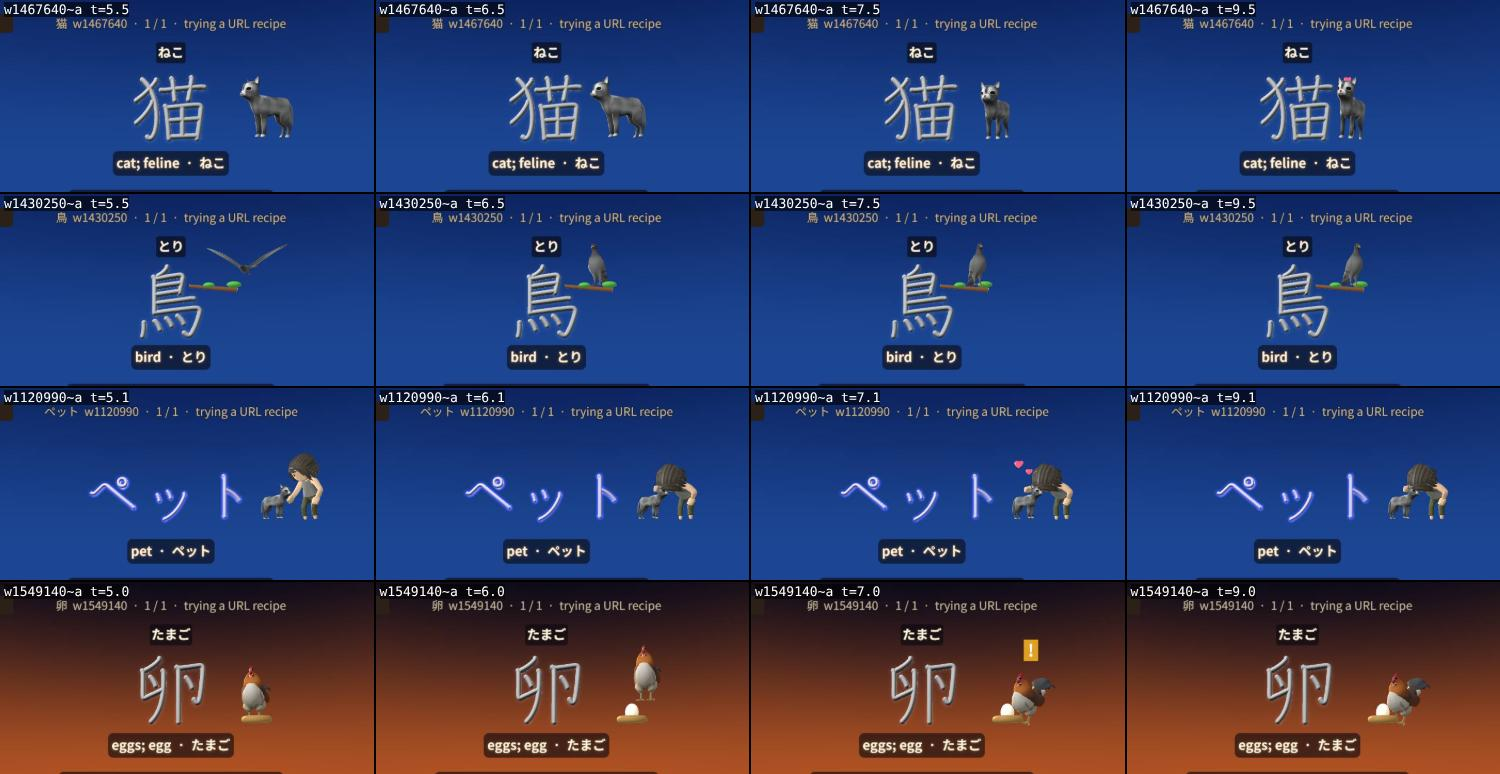
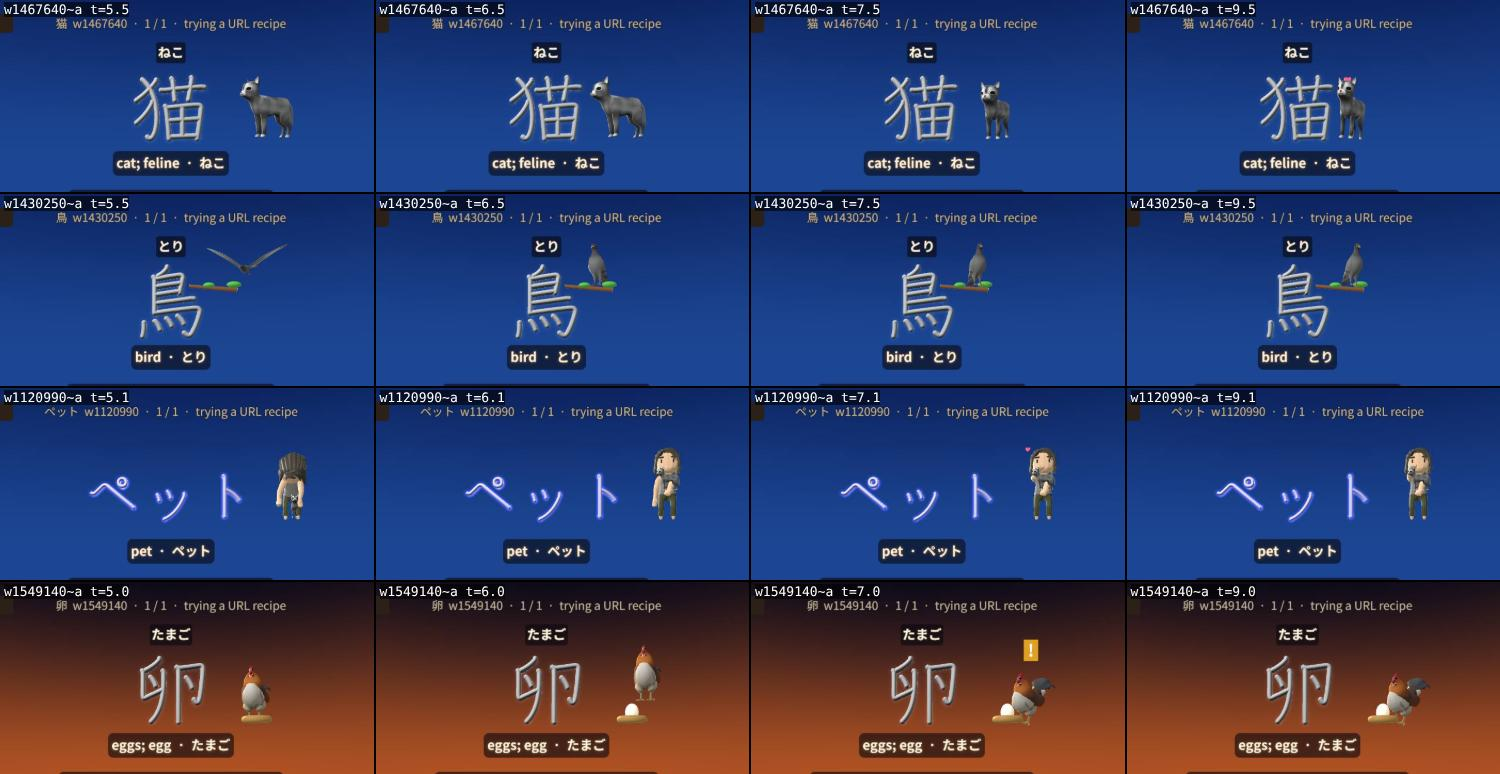
Step 3a: held things rest against the palm, not inside the fist
model-kit.js: grip() reaches so the palm touches a thing and twists the forearm and wrist so
the palm faces it; hold() places the prop against the palm. 飲む holds the glass from its side,
食べる rests the bowl on the upturned palm, ペット holds the cat and strokes its head palm down.

Claude-Session: https://claude.ai/code/session_01BCMTVVwWKQfPaXhvHiXkTn

diff --git a/src/effects/vignettes/q-gestures.js b/src/effects/vignettes/q-gestures.js
@@ -21,7 +21,7 @@ const RIGHT = Math.PI / 2, LEFT = -Math.PI / 2;
 const lerp = (a, b, f) => a + (b - a) * f;
 const label = (u, text, bg, h = 0.16) => textPlane(text, { h: h * u, color: '#ffffff', bg, pad: 0.25 });
 const pop = (m, k, x, y, z) => { m.visible = k > 0.01; m.scale.setScalar(grow(k)); m.position.set(x, y, z); };
-const W = new THREE.Vector3(), W2 = new THREE.Vector3();
+const W = new THREE.Vector3(), W2 = new THREE.Vector3(), W3 = new THREE.Vector3();
 
 // ---- 食べる ----
 function eat(ctx, spec, stage) {
@@ -29,7 +29,7 @@ function eat(ctx, spec, stage) {
   const who = actor(spec.who, 0.9 * u);
   const bowl = solidProp([[G.cyl(0.085 * u, 0.05 * u, 0.07 * u, 0, 0, 0), 0xc83a2a], [G.cyl(0.08 * u, 0.08 * u, 0.006 * u, 0, 0.033 * u, 0), 0x2a1410], [G.cyl(0.035 * u, 0.04 * u, 0.012 * u, 0, -0.04 * u, 0), 0x8a2018]], 0.4);
   const rice = solidProp([[G.sphere(0.075 * u, 0, 0, 0, 1, 0.55, 1), 0xfffaf0]], 0.6);
-  const sticks = solidProp([[G.cyl(0.009 * u, 0.006 * u, 0.22 * u, -0.012 * u, 0, 0.09 * u, Math.PI / 2), 0xf0c878], [G.cyl(0.009 * u, 0.006 * u, 0.22 * u, 0.012 * u, 0, 0.09 * u, Math.PI / 2), 0xf0c878]], 0.4);
+  const sticks = solidProp([[G.cyl(0.006 * u, 0.009 * u, 0.22 * u, -0.01 * u, 0, 0.07 * u, Math.PI / 2), 0xf0c878], [G.cyl(0.006 * u, 0.009 * u, 0.22 * u, 0.01 * u, 0, 0.07 * u, Math.PI / 2), 0xf0c878]], 0.4);
   const bite = solidProp([[G.sphere(0.028 * u, 0, 0, 0, 1, 0.8, 1), 0xffffff]], 0.7);
   const chew = label(u, 'もぐもぐ', '#c06a2a', 0.13), hearts = many(HEART(u, 0.1), 3, 1);
   bowl.add(rice); rice.position.y = 0.03 * u;
@@ -41,11 +41,11 @@ function eat(ctx, spec, stage) {
       const A = acts(ctx, t, loop), pre = A.u < 0, v = pre ? -1 : A.v;
       who.pose('Idle', t);
       who.group.position.set(x0, floor, 0.05 * u); who.group.rotation.y = -0.35;
-      // the bowl in the left hand, at the chest
-      const hold = pre ? A.setup : 1;
-      who.handTo('L', who.local(0.1, 0.4, 0.27, W), hold);
-      who.carry(bowl, 'L', group, [-0.02, 0.05, 0.02]);
-      bowl.rotation.y = -0.35;
+      // the bowl rests on the left palm, held up at the chest (the palm turns up under it)
+      const hold = pre ? A.setup : 1, upW = W3.set(0, 1, 0), rB = 0.046 * u * group.getWorldScale(W).y;
+      who.grip('L', who.local(0.1, 0.42, 0.27, W), upW, rB, hold, { out: 0.9, down: 0.5 });
+      const palmL = who.hold(bowl, 'L', group, rB);
+      bowl.quaternion.setFromUnitVectors(W2.set(0, 1, 0), palmL.lerp(upW, 0.75).normalize());
       // the right hand: bowl -> mouth for each bite (a 1.4 s beat), then the happy nod
       let up = 0, at = -1;
       for (const b of bites) if (v >= b && v < b + 1.5) { at = v - b; up = between(at, 0.35, 0.75) * (1 - between(at, 1.15, 1.45)); }
@@ -53,14 +53,15 @@ function eat(ctx, spec, stage) {
       const bowlTop = new THREE.Vector3(); bowl.getWorldPosition(bowlTop).add(W2.set(0, 0.04 * u * (1 - dip), 0));
       const mouth = who.at('mouth', new THREE.Vector3(), 0, -0.01, 0.04);
       const tip = bowlTop.lerp(mouth, up);
-      // the chopsticks: from the hand to the tip, pointing into the bowl (left, down, forward), then up into the mouth
+      // the chopsticks lie along the palm and point into the bowl (left, down, forward), then up into the mouth
       const len = 0.17 * u * group.getWorldScale(W).y, dir = who.local(lerp(0.85, 0.55, up), lerp(-0.4, 0.15, up), lerp(0.25, -0.5, up), W2).sub(who.local(0, 0, 0, W)).normalize();
       who.handTo('R', tip.clone().addScaledVector(dir, -len), pre ? 0.4 * A.setup : 1);
+      who.twist('R', who.local(1, 0, 0, W).sub(who.local(0, 0, 0, W2)).normalize(), pre ? 0 : 1);
       if (up > 0.2) who.turn('Head', 0.12 * up);
-      who.carry(sticks, 'R', group, [0, 0, 0]);
-      const fistW = who.fist('R', new THREE.Vector3());
-      sticks.lookAt(fistW.addScaledVector(dir, len));
-      bite.visible = !pre && at >= 0.25 && at < 0.82; bite.position.copy(group.worldToLocal(tip.clone()));
+      who.hold(sticks, 'R', group, 0.008 * u * group.getWorldScale(W).y);
+      sticks.lookAt(tip);
+      sticks.getWorldPosition(W); const end = W.addScaledVector(W2.copy(tip).sub(W).normalize(), len);
+      bite.visible = !pre && at >= 0.25 && at < 0.82; bite.position.copy(group.worldToLocal(end));
       // the rice goes down a third each bite; it fills again at the end of the loop
       const eaten = pre ? 0 : bites.filter((b) => v > b + 0.8).length / 3, refill = pre ? 0 : between(v, 6.6, 7.2);
       const r = Math.max(0.05, (1 - eaten) + eaten * refill); rice.scale.set(r, r, r); rice.position.y = 0.03 * u - 0.02 * u * (1 - r);
@@ -80,11 +81,11 @@ function eat(ctx, spec, stage) {
 function drink(ctx, spec, stage) {
   const u = stage.u, B = stage.box, group = new THREE.Group(), floor = B.minY, x0 = B.maxX + 0.6 * u;
   const who = actor(spec.who, 0.9 * u);
-  const glass = solidProp([[G.cyl(0.06 * u, 0.05 * u, 0.2 * u, 0, 0.1 * u, 0), 0xcfe8ff]], 0.25);
+  const R = 0.058 * u, glass = solidProp([[G.cyl(0.062 * u, 0.052 * u, 0.2 * u, 0, 0, 0), 0xcfe8ff]], 0.25);   // pivot: its middle
   glass.material.transparent = true; glass.material.opacity = 0.45; glass.material.depthWrite = false;
-  const milk = solidProp([[G.cyl(0.052 * u, 0.045 * u, 0.17 * u, 0, 0.085 * u, 0), 0xffffff]], 0.7);
+  const milk = solidProp([[G.cyl(0.054 * u, 0.047 * u, 0.17 * u, 0, 0.085 * u, 0), 0xffffff]], 0.7);
   const gulp = label(u, 'ごくごく', '#3a7ac0', 0.13), ahh = label(u, 'ぷはー', '#c0603a', 0.15);
-  glass.add(milk); milk.position.y = 0.012 * u;
+  glass.add(milk); milk.position.y = -0.088 * u;
   group.add(who.group, glass, gulp, ahh);
   const loop = 6.6, yaw = -0.35;
   return {
@@ -94,16 +95,18 @@ function drink(ctx, spec, stage) {
       const T = timeline(v, { lift: [0.3, 0.8], tip: [1.0, 0.6], down: [3.2, 0.6], lower: [3.5, 0.8], fill: [5.6, 0.8] });
       who.pose('Idle', t);
       who.group.position.set(x0, floor, 0.05 * u); who.group.rotation.y = yaw;
-      // the glass in the right hand: at the chest, then up at the mouth, tipped back with the head
-      const sip = T.lift * (1 - T.lower), tip = T.tip * (1 - T.down);
-      const chest = who.local(-0.06, 0.42, 0.26, new THREE.Vector3()), mouth = who.at('mouth', new THREE.Vector3(), -0.01, -0.06, 0.1);
-      who.handTo('R', chest.lerp(mouth, sip), pre ? A.setup : 1);
+      // the glass rests against the right palm (the hand on its right side): at the chest, then up at the mouth, tipped
+      // back with the head; the hand follows the glass, never the other way round
+      const sip = T.lift * (1 - T.lower), tip = T.tip * (1 - T.down), ws = group.getWorldScale(W).y;
+      const chest = who.local(-0.03, 0.4, 0.27, new THREE.Vector3()), mouth = who.at('mouth', new THREE.Vector3(), 0.01, -0.07, 0.13 - 0.03 * tip);
+      const toward = who.local(1, 0, 0, W).sub(who.local(0, 0, 0, W2)).normalize();
       who.turn('Head', -0.35 * tip);
-      who.carry(glass, 'R', group, [0, -0.02, 0.02]);
+      who.grip('R', chest.lerp(mouth, sip), toward, R * ws, pre ? A.setup : 1, { out: 0.7, down: 0.7 });
+      who.hold(glass, 'R', group, R * ws);
       glass.rotation.set(-1.5 * tip, yaw, 0, 'YXZ');
       // the milk goes down while tipped, fills again at the end
       const left = pre ? 1 : Math.max(0.04, 1 - between(v, 1.4, 3.2) * 0.96 + T.fill * 0.96);
-      milk.scale.set(1, left, 1); milk.position.y = 0.012 * u;
+      milk.scale.set(1, left, 1); milk.position.y = -0.088 * u;
       const swallow = !pre && v > 1.4 && v < 3.2;
       who.turn('Neck', swallow ? 0.03 * Math.sin(v * 12) : 0);
       pop(gulp, swallow ? 1 : 0, x0 - 0.1 * u, floor + 1.08 * u + 0.02 * u * Math.sin(v * 10), 0.2 * u);
@@ -159,7 +162,8 @@ function sheet(ctx, spec, stage) {
       p.group.position.set(B.maxX + 0.6 * u, B.minY, 0.05 * u); p.group.rotation.y = spec.yaw;
       if (g === 'point') p.point('R', p.local(-1, 0.6, 0.5, W), k);
       else if (g === 'write') p.write('R', p.local(0, 0.3, 0.3, W), k, t);
-      else if (g === 'hold' || g === 'bow') p[g](k);
+      else if (g === 'hold') p.holdOut(k);
+      else if (g === 'bow') p.bow(k);
       else if (g === 'nod' || g === 'shake') p[g](k, t);
       else if (g === 'shadeEyes') p[g]('R', k, 0.3);
       else p[g]('R', k, t);

diff --git a/src/effects/vignettes/model-kit.js b/src/effects/vignettes/model-kit.js
@@ -2,7 +2,7 @@
 // point, read, write, listen, look, sleep), layered on a clip. Every frame: a.pose(clip, t), then gestures, each with a
 // 0..1 amount (0 = the clip's own pose). Arms reach with two-bone IK in world space, so a gesture works from any clip and
 // any facing; heads and backs turn about the actor's own axes. pose() restores what was written, so nothing piles up.
-//   const a = actor('guy', 0.85 * u); ...  a.pose('Idle', t); a.handTo('R', a.at('mouth'), k); a.carry(cup, 'R', grip);
+//   const a = actor('guy', 0.85 * u); ...  a.pose('Idle', t); a.grip('R', cupMiddle, towardCup, cupRadius, k); a.hold(cup, 'R', group, cupRadius);
 // Landmarks (a.at): mouth, earR / earL, eyes, chest, front (a hand held out), lap, over (above the head), in the actor's
 // own frame, following the head. People share one rig, so this works on all 16 (docs/MODELS.md).
 import * as THREE from 'three';
@@ -14,6 +14,10 @@ const SIDE = { R: -1, L: 1 };                   // the actor's right hand is on 
 // landmarks in heights, relative to the Head bone (head ones) or the feet; x is to the actor's left
 const HEAD = { mouth: [0, 0.07, 0.17], eyes: [0, 0.15, 0.2], earR: [-0.2, 0.12, 0.02], earL: [0.2, 0.12, 0.02], over: [0, 0.42, 0.06] };
 const BODY = { chest: [0, 0.5, 0.2], front: [0, 0.48, 0.34], lap: [0, 0.32, 0.22] };
+// The fist is a flat paddle with no fingers: its middle sits FIST_MID (heights, in the Fist bone's frame) from the wrist
+// bone, it is 2 * FIST_HALF thick from palm to back, and the palm faces the bone's -x (right hand) / +x (left hand), toward
+// the thigh in the rest pose. A held thing rests against the palm (grip / hold), never inside the fist.
+const FIST_MID = [0, 0.053, 0.015], FIST_HALF = 0.037, PALM = { R: -1, L: 1 };
 
 const v1 = new THREE.Vector3(), v2 = new THREE.Vector3(), v3 = new THREE.Vector3(), v4 = new THREE.Vector3(), v5 = new THREE.Vector3();
 const q1 = new THREE.Quaternion(), q2 = new THREE.Quaternion(), q3 = new THREE.Quaternion(), qa = new THREE.Quaternion();
@@ -82,7 +86,42 @@ export function actor(name, h, { tint = SKIN } = {}) {
       refresh();
     },
     fist(side, out = new THREE.Vector3()) { return ok ? bones[`Fist${side}`].getWorldPosition(out) : g.getWorldPosition(out); },
-    // put a prop (a child of `space`, usually the scene group) in the hand: grip [x, y, z] in heights in the actor's frame
+    // the middle of the fist and the way its palm faces (world)
+    fistMid(side, out = new THREE.Vector3()) {
+      if (!ok) return g.getWorldPosition(out);
+      const f = bones[`Fist${side}`];
+      return f.getWorldPosition(out).add(v1.set(...FIST_MID).multiplyScalar(scale()).applyQuaternion(f.getWorldQuaternion(q2)));
+    },
+    palm(side, out = new THREE.Vector3()) { return ok ? out.set(PALM[side], 0, 0).applyQuaternion(bones[`Fist${side}`].getWorldQuaternion(q2)) : out.set(0, 0, 1); },
+    // the palm against a thing: the hand reaches so its palm faces `toward` (world unit vector, from the hand to the thing)
+    // and touches a thing of radius r (world units) whose middle is `centre`; the forearm and wrist twist to turn the palm
+    grip(side, centre, toward, r, k = 1, opts) {
+      if (!ok || k <= 0) return;
+      const fist = bones[`Fist${side}`], want = centre.clone().addScaledVector(toward, -(r + FIST_HALF * scale()));
+      for (let i = 0; i < 2; i++) {                        // the wrist sits a little off the fist's middle: aim twice
+        const off = a.fistMid(side, new THREE.Vector3()).sub(fist.getWorldPosition(v3));
+        a.handTo(side, want.clone().sub(off), k, opts);
+        a.twist(side, toward, k);
+      }
+    },
+    // turn the forearm (half) and wrist (half) about the forearm so the palm faces `toward` as far as it can
+    twist(side, toward, k = 1) {
+      const lo = bones[`LowerArm${side}`], fist = bones[`Fist${side}`];
+      const f = fist.getWorldPosition(new THREE.Vector3()).sub(lo.getWorldPosition(v3)).normalize();
+      const p = a.palm(side, new THREE.Vector3()), d = toward.clone();
+      p.addScaledVector(f, -p.dot(f)); d.addScaledVector(f, -d.dot(f));
+      if (p.lengthSq() < 1e-8 || d.lengthSq() < 1e-8) return;
+      const ang = Math.atan2(f.dot(v2.crossVectors(p, d)), p.dot(d)) * k;
+      turnWorld(lo, q1.setFromAxisAngle(f, ang / 2)); turnWorld(fist, q1.setFromAxisAngle(f, ang / 2));
+      refresh();
+    },
+    // a prop resting against the palm: its middle r (world units) out from the palm's surface. Returns the palm direction.
+    hold(prop, side, space, r, out = new THREE.Vector3()) {
+      const n = a.palm(side, out), p = a.fistMid(side, new THREE.Vector3()).addScaledVector(n, FIST_HALF * scale() + r);
+      prop.position.copy(space.worldToLocal(p));
+      return n;
+    },
+    // (older) a prop at the wrist bone plus an offset in heights in the actor's frame; prefer grip + hold
     carry(prop, side, space, grip = [0, 0, 0]) {
       const k = scale(), p = a.fist(side, new THREE.Vector3()).add(v1.set(grip[0], grip[1], grip[2]).multiplyScalar(k).applyQuaternion(g.getWorldQuaternion(qa)));
       prop.position.copy(space.worldToLocal(p));
@@ -107,7 +146,7 @@ export function actor(name, h, { tint = SKIN } = {}) {
       a.handTo(side, S.add(d), k, { out: 0.3, down: 1 });
     },
     // both hands in front of the chest, apart (holding a book open, a bowl, a box)
-    hold(k, { apart = 0.2, y = 0.44, z = 0.3 } = {}) {
+    holdOut(k, { apart = 0.2, y = 0.44, z = 0.3 } = {}) {
       a.handTo('R', a.local(-apart / 2, y, z), k); a.handTo('L', a.local(apart / 2, y, z), k);
     },
     // bow (お辞儀): the back and head tip forward; hands stay at the sides

diff --git a/src/effects/vignettes/q-animals.js b/src/effects/vignettes/q-animals.js
@@ -2,7 +2,7 @@
 // stretch, wings that flap through a vertex bend (flap()). Animals face +z like every model.
 //   q-cat    猫: a cat pads in, turns to you, stretches and meows ニャー, rubs against the kanji (hearts), pads off
 //   q-bird   鳥: a pigeon flies in flapping, lands on a branch growing out of the kanji, pecks and coos ポッポー, flies off
-//   q-pet    ペット: a person crouches by a cat and strokes its back; the cat leans into the hand, hearts
+//   q-pet    ペット: a person scoops a cat up onto her palm, holds it at her chest and strokes its head, hearts; sets it down
 //   q-egg    卵: a hen fluffs up, hops, and an egg is under her; she looks down at it (!), コケコッコー
 import * as THREE from 'three';
 import { acts, timeline, bump } from './timeline.js';
@@ -108,23 +108,30 @@ function bird(ctx, spec, stage) {
 
 // ---- ペット ----
 function pet(ctx, spec, stage) {
-  const u = stage.u, B = stage.box, group = new THREE.Group(), floor = B.minY, cx = B.maxX + 0.45 * u, px = cx + 0.4 * u;
-  const c = createModel('cat', { height: 0.42 * u }), who = actor(spec.who, 0.85 * u), love = many(HEART(u, 0.08), 3, 1);
+  const u = stage.u, B = stage.box, group = new THREE.Group(), floor = B.minY, px = B.maxX + 0.65 * u;
+  const hc = 0.28 * u, c = createModel('cat', { height: hc }), who = actor(spec.who, 0.9 * u), love = many(HEART(u, 0.08), 3, 1);
   group.add(c.group, who.group, love);
-  const back = new THREE.Vector3(), loop = 6.4;
+  const UP = new THREE.Vector3(0, 1, 0), DOWN = new THREE.Vector3(0, -1, 0), seat = new THREE.Vector3(), head = new THREE.Vector3(), ground = new THREE.Vector3(), loop = 7.2;
   return {
     group,
     step(t) {
       const A = acts(ctx, t, loop), pre = A.u < 0, v = pre ? -1 : A.v;
-      const T = timeline(v, { down: [0.2, 0.7], up: [5.0, 0.8] }), k = T.down * (1 - T.up);
-      // crouching: the PickUp clip held at its lowest, the hand strokes along the cat's back
-      who.pose(k > 0.05 ? 'PickUp' : 'Idle', k > 0.05 ? 0.45 * k : t, false);
-      who.group.position.set(px, floor, 0.05 * u); who.group.rotation.y = LEFT + 0.6;
-      c.group.position.set(cx, floor, 0.12 * u); c.group.rotation.set(0, 0.6, (pre ? 0 : 0.08 * k * Math.sin(v * 2.6)));
+      const T = timeline(v, { bend: [0.2, 0.6], lift: [0.8, 0.7], rise: [0.8, 0.7], set: [5.4, 0.7], bend2: [5.2, 0.5], up2: [6.1, 0.6] });
+      const crouch = Math.max(T.bend * (1 - T.rise), T.bend2 * (1 - T.up2)), held = T.lift * (1 - T.set);
+      // she crouches (PickUp held low), scoops the cat up onto her left palm, holds it at her chest and strokes its head
+      // with her right palm, then crouches again and sets it down
+      who.pose(crouch > 0.02 ? 'PickUp' : 'Idle', crouch > 0.02 ? 0.5 * crouch : t, false);
+      who.group.position.set(px, floor, 0.05 * u); who.group.rotation.y = -0.3;
+      ground.copy(who.local(0.05, 0, 0.32)); who.local(0.0, 0.31, 0.3, seat);
+      const feet = ground.lerp(seat, held), reach = pre ? 0 : between(v, 0.4, 0.8) * (1 - between(v, 6.0, 6.4));
+      who.grip('L', feet, UP, 0, reach, { out: 0.8, down: 0.6 });
+      if (reach > 0.5) who.hold(c.group, 'L', group, 0); else c.group.position.copy(group.worldToLocal(feet.clone()));
+      c.group.rotation.set(0, -0.3 - 1.1 * held, 0.06 * held * Math.sin(v * 2.6));
+      // the stroke: from the top of its head down its neck, the palm flat
       const stroke = Math.sin(v * 2.6) * 0.5 + 0.5;
-      group.localToWorld(back.set(cx + lerp(0.06, -0.06, stroke) * u, floor + 0.37 * u, 0.12 * u + lerp(0.06, -0.06, stroke) * u));
-      who.handTo('R', back, pre ? 0 : between(v, 0.7, 1.1) * (1 - between(v, 4.7, 5.0)), { out: 0.3, down: 0.6 });
-      hearts(love, 3, cx, floor + 0.5 * u, 0.2 * u, pre ? -1 : v, 2.0, u);
+      c.group.updateWorldMatrix(true, false); c.group.localToWorld(head.set(0, lerp(0.95, 0.78, stroke) * hc, lerp(0.36, 0.12, stroke) * hc));
+      who.grip('R', head, DOWN, 0, pre ? 0 : between(v, 1.6, 2.0) * (1 - between(v, 4.8, 5.2)), { out: 0.5, down: 0.6 });
+      hearts(love, 3, px - 0.1 * u, floor + 0.8 * u, 0.25 * u, pre ? -1 : v, 2.4, u);
     },
   };
 }

diff --git a/src/effects/vignette-catalog.js b/src/effects/vignette-catalog.js
@@ -393,7 +393,7 @@ export const VIGNETTES = {
   // ---- Everything Library animals (static models moved by hand, vignettes/q-animals.js) ----
   'q-cat': VM(3, '猫 (models): a cat pads in, turns to you, stretches and meows ニャー, rubs against the kanji (hearts) and pads off', ['cat']),
   'q-bird': VM(4, '鳥 (models): a pigeon flies in flapping, lands on a branch growing out of the kanji, pecks twice, puffs up and coos ポッポー, flies off', ['pigeonFlying', 'pigeon']),
-  'q-pet': VM((o) => pdc(o.who) + 2, 'ペット (models): a person crouches by a cat and strokes its back; the cat leans into the hand, hearts', (o) => ['cat', o.who], { who: 'gal3' }),
+  'q-pet': VM((o) => pdc(o.who) + 2, 'ペット (models): a person scoops a cat up onto her palm, holds it at her chest and strokes its head (hearts), then sets it down', (o) => ['cat', o.who], { who: 'gal3' }),
   'q-egg': VM(5, '卵 (models): a hen fluffs up on a nest and hops off: an egg is under her; she looks down at it (!), it rocks, she crows コケコッコー', ['chicken']),
   'q-gesture': VM((o) => pdc(o.who), 'review of the gesture kit (not for cards): one person doing one gesture g (toMouth sip toEar cupEar shadeEyes wave hold bow point write nod shake) at amount k over a clip', (o) => [o.who], { who: 'guy', g: 'wave', k: 1, clip: 'Idle', yaw: 0 }),
   'm-lineup': VM(32, 'review sheet of the trial models idling: dog, chick, fish, elephant, man, oak, sedan, tram (not for cards; names: other models)', (o) => o.names ?? ['dog', 'chick', 'fish', 'elephant', 'man', 'oak', 'sedan', 'tramCar'], { names: null, clip: 'idle' }),

diff --git a/CLAUDE.md b/CLAUDE.md
@@ -125,7 +125,7 @@ would a kid who has never seen the kanji guess its meaning from the scene alone?
   counters and time words. Word variants of a theme module live in its `step1-*v.js` (keeps modules near 300 lines).
 - 3D models: `src/effects/models.js` loads glTF files from `assets/models/` (names in `src/effects/model-list.js`, clips
   and draw calls in docs/MODELS.md). Style: Quaternius for people and animals, Kenney for vehicles and objects, the
-  Everything Library (CC BY 4.0, static, `vignettes/q-animals.js`) for animals Quaternius lacks, shapes for the abstract. A scene names its models in the catalog (`VM(dc, desc, ['shiba'])`), clones with
+  Everything Library (CC BY 4.0, static, `vignettes/q-animals.js`) only when no animated model fits, shapes for the abstract. A scene names its models in the catalog (`VM(dc, desc, ['shiba'])`), clones with
   `createModel('shiba', { height, tint })` and calls `pose('Gallop', t)` every frame before any bone tweak. Trials of new
   recipes for existing cards: `content/trials/<name>.json`, viewed with `?preview=1&trial=<name>` (Old / New button).
   New models: `node scripts/fbx-to-glb.mjs` (FBX only), `node scripts/prep-model.mjs in out.glb --keep Idle,Walk` (one model out of a library file:
@@ -133,8 +133,10 @@ would a kid who has never seen the kanji guess its meaning from the scene alone?
   the name to model-list.js, `node scripts/list-models.mjs --write`. Quaternius downloads must come from the user.
 - Gestures (actions the people's clips lack: eat, drink, phone, wave, bow, nod, point, read, write, listen, look):
   `vignettes/model-kit.js`. `actor(name, h)`, then every frame `a.pose(clip, t)` and gestures with a 0..1 amount
-  (`a.toMouth('R', k)`, `a.bow(k)`, `a.handTo('L', a.local(x, y, z), k)` reaches any point by IK; `a.carry(prop, 'R',
-  group)` puts a prop in the fist). Review: `{ "vignette": { "type": "q-gesture", "g": "wave" } }`; examples `q-eat`
+  (`a.toMouth('R', k)`, `a.bow(k)`, `a.handTo('L', a.local(x, y, z), k)` reaches any point by IK). **Held things rest
+  against the palm, never inside the fist** (the fist has no fingers; the user checks this): `a.grip('R', middle, toward,
+  r, k)` brings the palm against a thing of radius r, twisting the forearm so the palm faces `toward` (hand -> thing: a
+  glass from the side, a bowl from below, a head from above), then `a.hold(prop, 'R', group, r)` places it there. Review: `{ "vignette": { "type": "q-gesture", "g": "wave" } }`; examples `q-eat`
   `q-drink` `q-meet` (vignettes/q-gestures.js). Let a recipe pick the person (`who`) and cost it with `pdc()`.
 - Trial loop: recipes in a JSON (`"id~a": effect`), `node scripts/look.mjs ids --recipes try.json --times -0.4,1,2.2,3.2
   --clip 150,20,560,340`, fix, then `scripts/set-recipes.mjs`. Word cards: `--clip 90,60,660,300` (the default crops their right edge). Usual fixes: `size` 1.2-1.5 on long words, tilt flat props

diff --git a/docs/BATCH-LOG.md b/docs/BATCH-LOG.md
@@ -3,6 +3,17 @@
 One entry per content batch: what was made, what the checks and the contact-sheet review found, what it cost. The numbers
 here feed the prompt for the next step (docs/prompts/). Newest first.
 
+## Step 3a: things held against the palm, 2026-10-09
+- **User's headset look at the gestures:** the motions look good, but a held cup sat inside the fist. The fist has no
+  fingers, so a held thing must rest where the palm would be. Also: use the static Everything Library animals only when
+  nothing animated fits.
+- **Kit:** measured the fist (a flat paddle 0.074 h thick, its middle 0.05 h past the wrist bone, the palm facing the
+  bone's -x / +x). New `grip(side, middle, toward, r, k)` (IK so the palm touches the thing, then the forearm and wrist
+  twist so the palm faces it), `hold(prop, side, space, r)`, `twist`, `palm`, `fistMid`; `carry` kept for old scenes.
+- **Scenes:** 飲む: the hand holds the glass from its side (the glass pivots on its middle and tips at the mouth). 食べる:
+  the bowl sits on the upturned left palm; the chopsticks start at the palm's edge. ペット: restaged: she scoops the cat
+  onto her palm, holds it at her chest and strokes its head with her palm down (crouching hid the hand under her head).
+
 ## Step 3a: food and the missing animals arrive, 2026-10-09
 - **From the user:** the Sushi Restaurant Kit's `Food/glTF` folder (Quaternius, CC0) and "Everything Library: Animals" by
   David O'Reilly (one .fbx of 239 static animals, **CC BY 4.0**: credited in the page footer, README and
